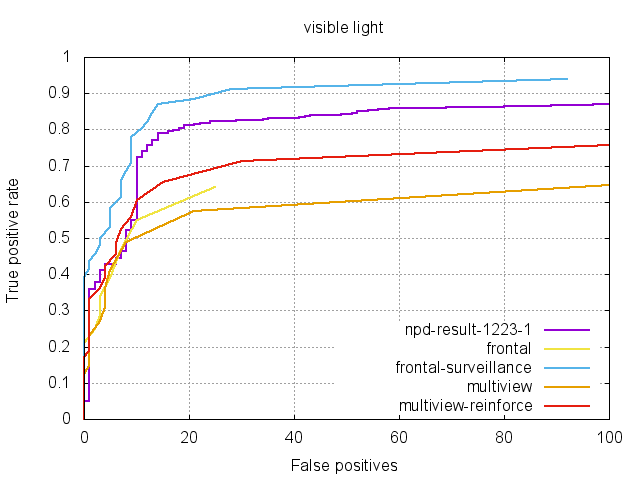
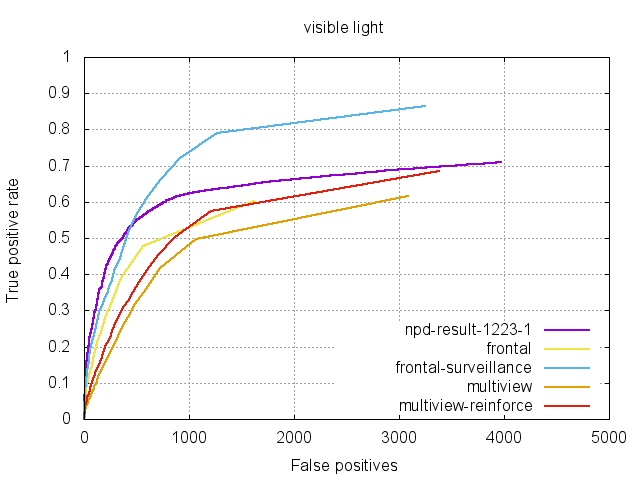
Update: detection results

diff --git a/Excalibur/Longinus/alignment.cpp b/Excalibur/Longinus/alignment.cpp
@@ -45,10 +45,10 @@ namespace glasssix
 		}
 		else
 		{
-			int top = std::max(-1, -1 * roi.x);
-			int bottom = std::max(roi.y + roi.height - ori_image.rows, -1);
-			int left = std::max(-1, -1 * roi.y);
-			int right = std::max(roi.x + roi.width - ori_image.cols, -1);
+			int top = std::max(0, -1 * roi.x);
+			int bottom = std::max(roi.y + roi.height - ori_image.rows, 0);
+			int left = std::max(0, -1 * roi.y);
+			int right = std::max(roi.x + roi.width - ori_image.cols, 0);
 			cv::Mat temp_origin_with_border;
 			cv::copyMakeBorder(ori_image, temp_origin_with_border, top, bottom, left, right, cv::BORDER_CONSTANT);
 			roi.x += left;
